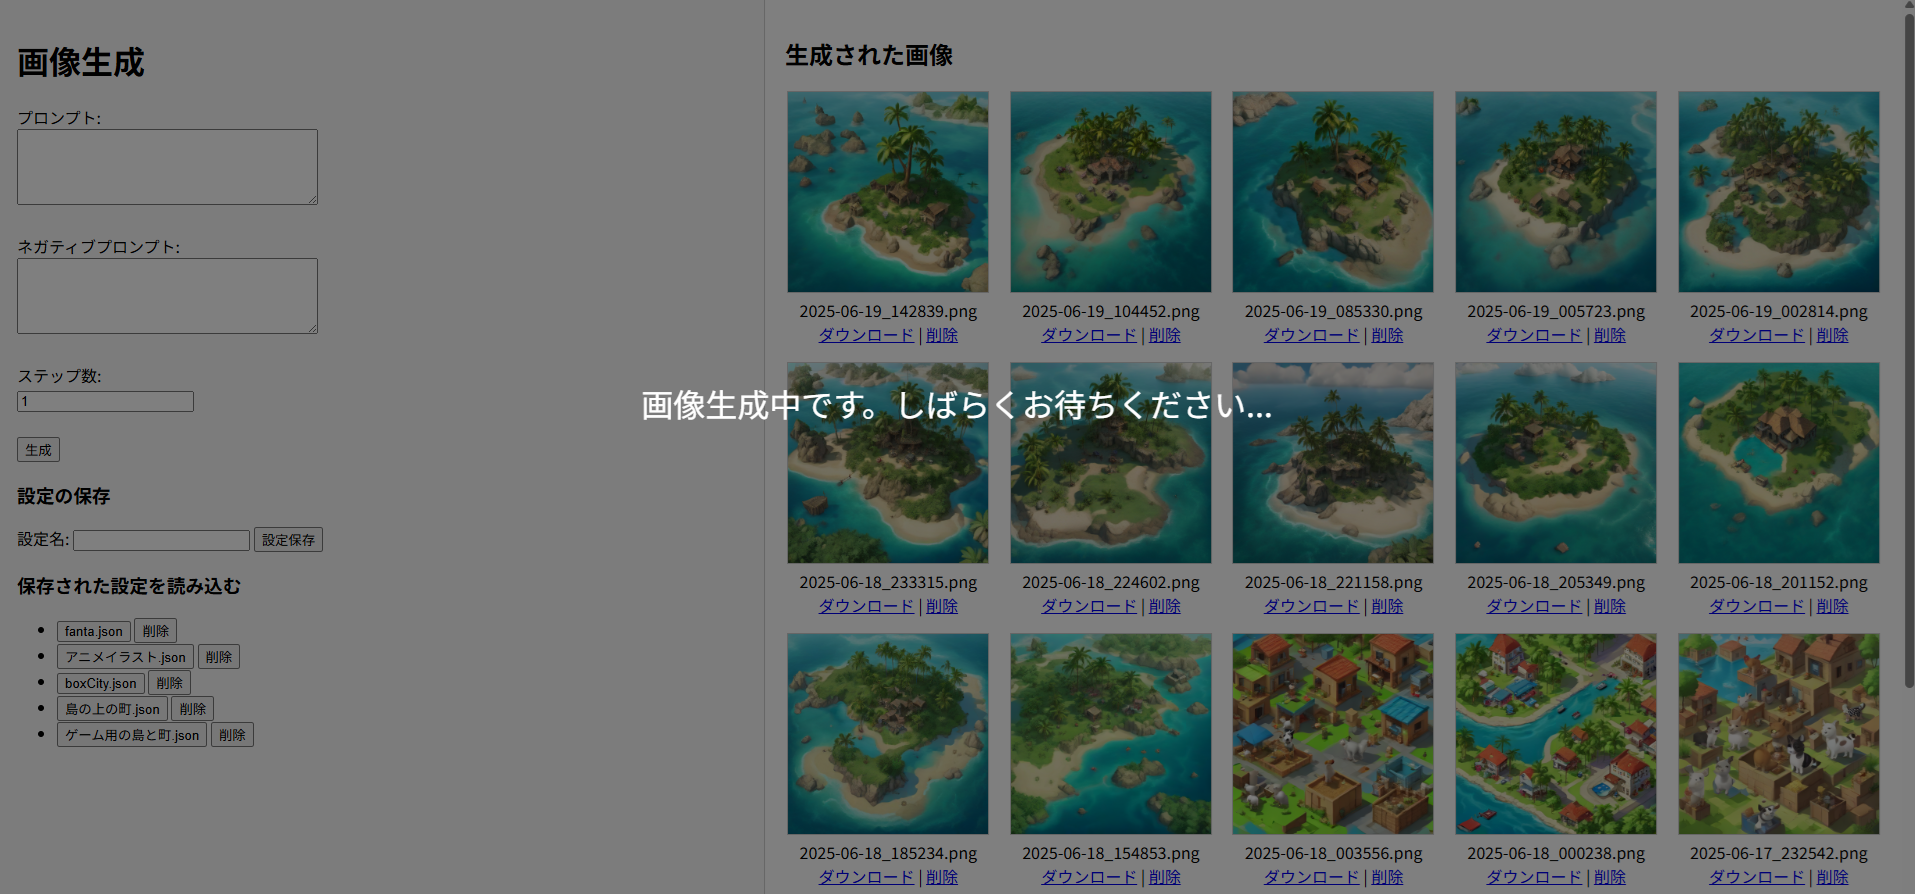
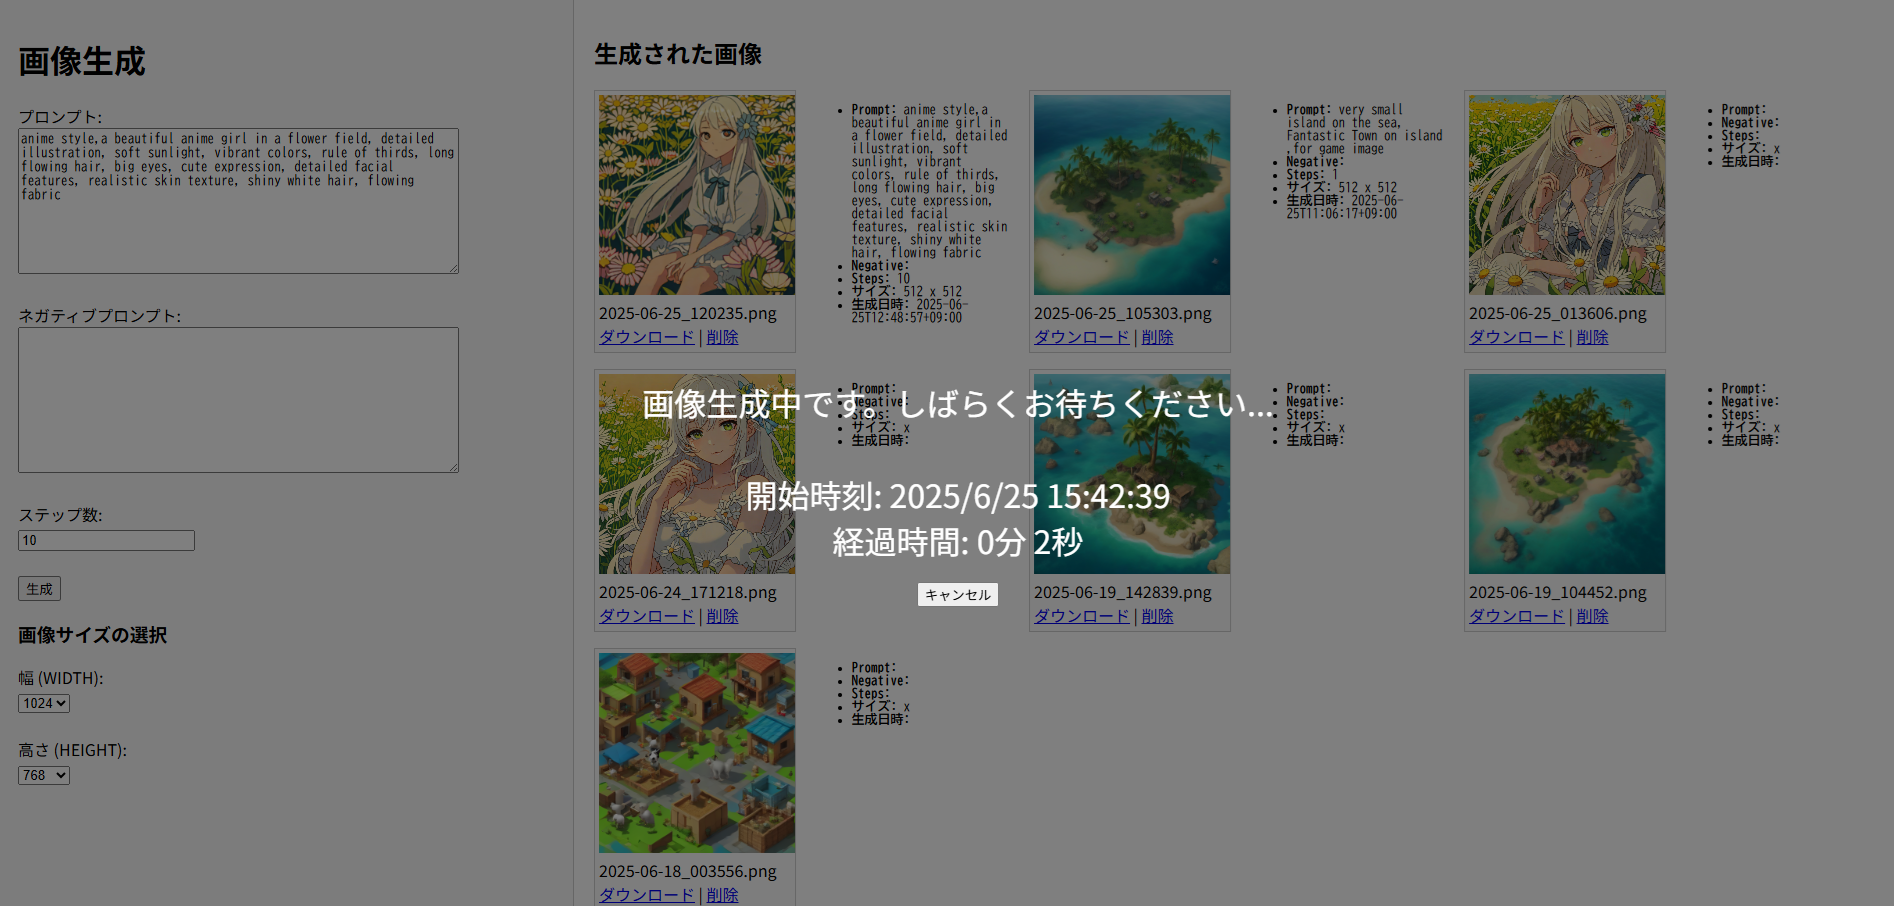
設定をPNGとセットで保存するように修正

diff --git a/templates/index.html b/templates/index.html
@@ -17,7 +17,7 @@
         }
 
         #left-pane {
-            width: 40%;
+            width: 30%;
             padding: 20px;
             border-right: 1px solid #ccc;
             box-sizing: border-box;
@@ -31,20 +31,25 @@
             box-sizing: border-box;
         }
 
-        #image-grid {
+        .image-grid {
             display: grid;
             grid-template-columns: repeat(auto-fill, minmax(200px, 1fr));
             gap: 16px;
         }
 
-        .image-item {
-            text-align: center;
+        .thumbnail-container {
+            position: relative;
+            overflow: hidden;
+            border: 1px solid #ccc;
+            padding: 4px;
+            background-color: #fafafa;
         }
 
-        .image-item img {
-            max-width: 100%;
-            max-height: 200px;
-            border: 1px solid #ccc;
+        .thumbnail-container img {
+            width: 200px;
+            height: 200px;
+            object-fit: cover;
+            cursor: zoom-in;
         }
 
         #veil {
@@ -65,93 +70,129 @@
 </head>
 
 <body>
-    <div id="veil">画像生成中です。しばらくお待ちください...</div>
+    <div id="veil">
+        画像生成中です。しばらくお待ちください...<br><br>
+        <div id="start-time"></div>
+        <div id="elapsed-time"></div>
+        <button onclick="cancelGeneration()">キャンセル</button>
+    </div>
+
     <div id="container">
         <div id="left-pane">
 
             <h1>画像生成</h1>
-
             <form id="genForm" action="/handle_form" method="post">
                 <label for="prompt">プロンプト:</label><br>
-                <textarea rows="5" cols="40" id="prompt" name="prompt" required>{{ prompt }}</textarea><br><br>
+                <textarea rows="10" cols="60" id="prompt" name="prompt" required>{{ prompt }}</textarea><br><br>
                 <label for="negative_prompt">ネガティブプロンプト:</label><br>
-                <textarea rows="5" cols="40" id="negative_prompt"
+                <textarea rows="10" cols="60" id="negative_prompt"
                     name="negative_prompt">{{ negative_prompt }}</textarea><br><br>
                 <label for="steps">ステップ数:</label><br>
                 <input type="number" id="steps" name="steps" value="{{ steps }}" min="1"><br><br>
                 <button type="submit" name="action" value="generate">生成</button><br>
-                <h3>設定の保存</h3>
-                <label for="config_name">設定名:</label>
-                <input type="text" name="config_name">
-                <button type="submit" name="action" value="save_config">設定保存</button>
-            </form>
 
-            <h3>保存された設定を読み込む</h3>
-            <ul>
-                {% if config_files %}
-                {% for config in config_files %}
-                <li>
-                    <form action="load_config" method="POST" style="display:inline;">
-                        <input type="hidden" name="config_name" value="{{ config }}">
-                        <button type="submit">{{ config }}</button>
-                    </form>
-                    <form action="delete_config" method="POST" style="display:inline;">
-                        <input type="hidden" name="config_name" value="{{ config }}">
-                        <button type="submit">削除</button>
-                    </form>
-                </li>
-                {% endfor %}
-                {% else %}
-                <li>保存された設定はありません。</li>
-                {% endif %}
-            </ul>
+                <h3>画像サイズの選択</h3>
+                <label for="image_width">幅 (WIDTH):</label><br>
+                <select id="image_width" name="image_width">
+                    {% for w in range(512, 1025, 256) %}
+                    <option value="{{ w }}" {% if w== image_width  %}selected{% endif %}>{{ w }}</option>
+                    {% endfor %}
+                </select><br><br>
+
+                <label for="image_height">高さ (HEIGHT):</label><br>
+                <select id="image_height" name="image_height">
+                    {% for h in range(512, 1025, 256) %}
+                    <option value="{{ h }}" {% if h== image_height %}selected{% endif %}>{{ h }}</option>
+                    {% endfor %}
+                </select><br><br>
+            </form>
         </div>
         <div id="right-pane">
             <h2>生成された画像</h2>
-            {% if images %}
-            <div id="image-grid">
-                {% for image in images %}
-                <div class="image-item">
-                    <img src="/static/images/{{ image }}" alt="{{ image }}">
-                    <div>{{ image }}</div>
-                    <a href="download/{{ image }}">ダウンロード</a> |
-                    <a href="delete/{{ image }}">削除</a>
+            <div class="image-grid">
+                {% for entry in image_entries %}
+                <div class="thumbnail-container">
+                    <img src="/static/images/{{ entry.filename }}" alt="{{ entry.filename }}">
+                    <div>{{ entry.filename }}</div>
+                    <a href="download/{{ entry.filename }}">ダウンロード</a> |
+                    <a href="delete/{{ entry.filename }}">削除</a>
                 </div>
+                <ul style="font-family: monospace;">
+                    <li><strong>Prompt:</strong> {{ entry.metadata.prompt or "" }}</li>
+                    <li><strong>Negative:</strong> {{ entry.metadata.negative_prompt or "" }}</li>
+                    <li><strong>Steps:</strong> {{ entry.metadata.steps or "" }}</li>
+                    <li><strong>サイズ:</strong> {{ entry.metadata.width }} x {{ entry.metadata.height }}</li>
+                    <li><strong>生成日時:</strong> {{ entry.metadata.created_at or "" }}</li>
+                </ul>
                 {% endfor %}
             </div>
-            {% else %}
-            <p>まだ画像が生成されていません。</p>
-            {% endif %}
         </div>
-
-    </div>
-
 </body>
 <script>
-    refreshed = true;
+    let refreshed = true;
+    let startTime = null;
 
     document.getElementById('genForm').addEventListener('submit', async function (e) {
         checkLock();
     });
 
-    function checkLock() {
-        fetch('/lock_status')
-            .then(res => res.json())
-            .then(data => {
-                const veil = document.getElementById('veil');
+    function formatElapsed(seconds) {
+        const minutes = Math.floor(seconds / 60);
+        const secs = seconds % 60;
+        return `${minutes}分 ${secs}秒`;
+    }
+
+    async function checkLock() {
+        const veil = document.getElementById('veil');
+        const startElem = document.getElementById('start-time');
+        const elapsedElem = document.getElementById('elapsed-time');
+        try {
+            const res = await fetch('/lock_status');
+            const data = await res.json();
                 if (data.locked) {
                     refreshed = false;
                     veil.style.display = 'block';
+                    if (data.started_at) {
+                        startTimestamp = new Date(data.started_at * 1000);
+                        const now = new Date();
+                        const elapsedSec = Math.floor((now - startTimestamp) / 1000);
+
+                        startElem.textContent = `開始時刻: ${startTimestamp.toLocaleString()}`;
+                        elapsedElem.textContent = `経過時間: ${formatElapsed(elapsedSec)}`;
+                    }
                 } else {
                     if (!refreshed) {
+                        refreshed = true;
                         // ページを/に移動する
                         window.location.href = '/';
-                        refreshed = true;
                     }
                     veil.style.display = 'none';
                 }
+                // 経過時間の更新
+                if (startTime) {
+                    const now = new Date();
+                    const diff = Math.floor((now - startTime) / 1000);
+                    const minutes = Math.floor(diff / 60);
+                    const seconds = diff % 60;
+                    elapsedElem.textContent = `経過時間: ${minutes}分 ${seconds}秒`;
+                }
+            } catch (e) {
+                console.error(e);
+            }
+
+    }
+
+    function cancelGeneration() {
+        fetch('/cancel', { method: 'POST' })
+            .then(res => res.json())
+            .then(data => {
+                alert('キャンセルしました');
+                veil.style.display = 'none';
             })
-            .catch(console.error);
+            .catch(err => {
+                alert('キャンセルに失敗しました');
+                console.error(err);
+            });
     }
 
     // 初回チェック + 3秒ごとにチェック

diff --git a/app.py b/app.py
@@ -1,67 +1,97 @@
-from flask import Flask, request, render_template, redirect, send_from_directory
+from flask import Flask, request, render_template, redirect, send_from_directory,jsonify
 import os
 import subprocess
 import uuid
 import json
+import os, signal
 from datetime import datetime
+
 
 app = Flask(__name__)
 IMAGE_DIR = 'static/images'
-CONFIG_DIR = 'config'
+
 LOCK_FILE = '/tmp/generate.lock'
 
-def is_locked():
-    if os.path.exists(LOCK_FILE):
-        with open(LOCK_FILE) as f:
-            pid = f.read().strip()
-        if pid.isdigit() and os.path.exists(f"/proc/{pid}"):
-            return True
-        else:
-            os.remove(LOCK_FILE)
-    return False
 
 @app.route('/lock_status')
 def lock_status():
-    return {'locked': is_locked()}
+    if os.path.exists(LOCK_FILE):
+        with open(LOCK_FILE) as f:
+            pid = f.read().strip()
+        started_at = os.path.getmtime(LOCK_FILE)
+
+        if pid.isdigit() and os.path.exists(f"/proc/{pid}"):
+            return jsonify({
+                'locked': True,
+                'started_at': started_at
+            })
+        else:
+            os.remove(LOCK_FILE)
+    return jsonify({'locked': False})
+
+@app.route('/latest_metadata')
+def latest_metadata():
+    import os, json
+    from glob import glob
+
+    json_files = sorted(
+        glob('static/images/*.json'),
+        key=os.path.getmtime,
+        reverse=True
+    )
+
+    if not json_files:
+        return jsonify({})
+
+    with open(json_files[0]) as f:
+        data = json.load(f)
+
+    return jsonify(data)
 
 @app.route('/')
 def index():
-    images = os.listdir(IMAGE_DIR)
-    images.sort(reverse=True)
-
-    config_files=[f for f in os.listdir(CONFIG_DIR) if f.endswith('.json')]
+    image_entries = []
+    for image_file in sorted(os.listdir(IMAGE_DIR), reverse=True):
+        if image_file.endswith(".png"):
+            json_file = os.path.join(IMAGE_DIR, image_file + '.json')
+            metadata = {}
+            if os.path.exists(json_file):
+                with open(json_file) as f:
+                    metadata = json.load(f)
+            image_entries.append({
+                "filename": image_file,
+                "metadata": metadata
+            })
     #デフォルトフォーム値を設定
     prompt = request.args.get('prompt', '')
     negative_prompt = request.args.get('negative_prompt', '')
     steps = request.args.get('steps', '1')
+    image_width = request.args.get("image_width", "512").strip()
+    image_height = request.args.get("image_height", "512").strip()
 
     return render_template(
         'index.html',
-        images=images,
-        config_files=config_files,
+        image_entries=image_entries,
         prompt=prompt,
         negative_prompt=negative_prompt,
         steps=steps,
-        locked=is_locked(),
+        image_width=int(image_width),
+        image_height=int(image_height)
      )
 
-@app.route('/load_config', methods=['POST'])
-def load_config():
-    config_name = request.form.get('config_name')
-    config_path = os.path.join(CONFIG_DIR, config_name)
-    if os.path.exists(config_path):
-        with open(config_path, 'r') as f:
-            config_data = json.load(f)
-        return redirect(f"/?prompt={config_data['prompt']}&negative_prompt={config_data['negative_prompt']}&steps={config_data['steps']}")
-    return redirect('/')
+@app.route("/cancel", methods=["POST"])
+def cancel_generation():
 
-@app.route('/delete_config', methods=['POST'])
-def delete_config():
-    config_name = request.form.get('config_name')
-    config_path = os.path.join(CONFIG_DIR, config_name)
-    if os.path.exists(config_path):
-        os.remove(config_path)
-    return redirect('/')
+    if os.path.exists(LOCK_FILE):
+        with open(LOCK_FILE) as f:
+            pid = int(f.read())
+        try:
+            os.kill(pid, signal.SIGTERM)
+            return jsonify({"status": "killed", "pid": pid})
+        except Exception as e:
+            return jsonify({"status": "error", "message": str(e)})
+    else:
+        return jsonify({"status": "no_pidfile"})
 
 @app.route('/handle_form', methods=['POST'])
 def handle_form():
@@ -69,37 +99,23 @@ def handle_form():
     prompt = request.form.get('prompt')
     negative_prompt = request.form.get('negative_prompt')
     steps = request.form.get('steps', '1')
-    config_name = request.form.get('config_name')
+    image_width = request.form.get('image_width', '512')
+    image_height = request.form.get('image_height', '512')
 
     if action == 'generate':
-        # if is_locked():
-        #     return redirect('/?error=locked')
-        # filename = f"{uuid.uuid4()}.png"
         filename = datetime.now().strftime("%Y-%m-%d_%H%M%S.png")
         filepath = os.path.join(IMAGE_DIR, filename)
-        subprocess.run(["bash", "generate_image.sh", filepath, prompt, negative_prompt, steps])
+        subprocess.run(["bash", "generate_image.sh", filepath, prompt, negative_prompt, steps, image_width, image_height])
 
-        return redirect(f"/?prompt={prompt}&negative_prompt={negative_prompt}&steps={steps}")
-        # return redirect('/')
-
-    elif action == 'save_config' and config_name:
-        config = {
-            'prompt': prompt,
-            'negative_prompt': negative_prompt,
-            'steps': steps
-        }
-        config_path = os.path.join(CONFIG_DIR, f"{config_name}.json")
-        with open(config_path, 'w') as f:
-            json.dump(config, f, indent=4)
-        return redirect('/')
-
-    return redirect('/')
+    return redirect(f"/?prompt={prompt}&negative_prompt={negative_prompt}&steps={steps}&image_width={image_width}&image_height={image_height}")
 
 @app.route('/delete/<filename>')
 def delete_image(filename):
     filepath = os.path.join(IMAGE_DIR, filename)
     if os.path.exists(filepath):
         os.remove(filepath)
+    if os.path.exists(filepath + ".json"):
+        os.remove(filepath + ".json")
     return redirect('/')
 
 @app.route('/download/<filename>')
